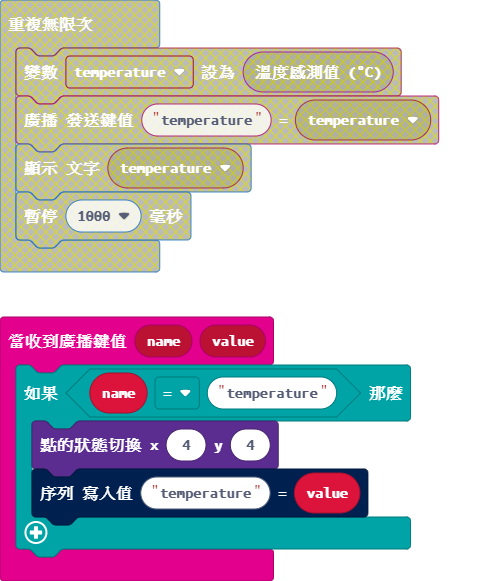
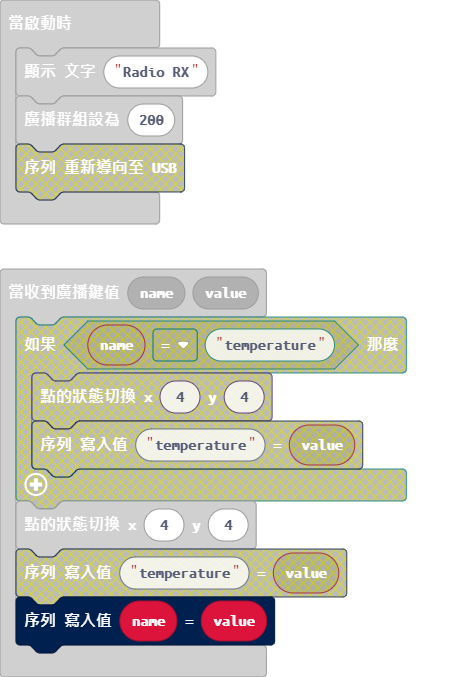
Update main.blocks, main.ts

diff --git a/main.ts b/main.ts
@@ -1,9 +1,6 @@
 radio.onReceivedValue(function (name, value) {
-    if (name == "temperature") {
-        led.toggle(4, 4)
-        serial.writeValue("temperature", value)
-    }
+    led.toggle(4, 4)
+    serial.writeValue(name, value)
 })
 basic.showString("Radio RX")
 radio.setGroup(200)
-serial.redirectToUSB()
